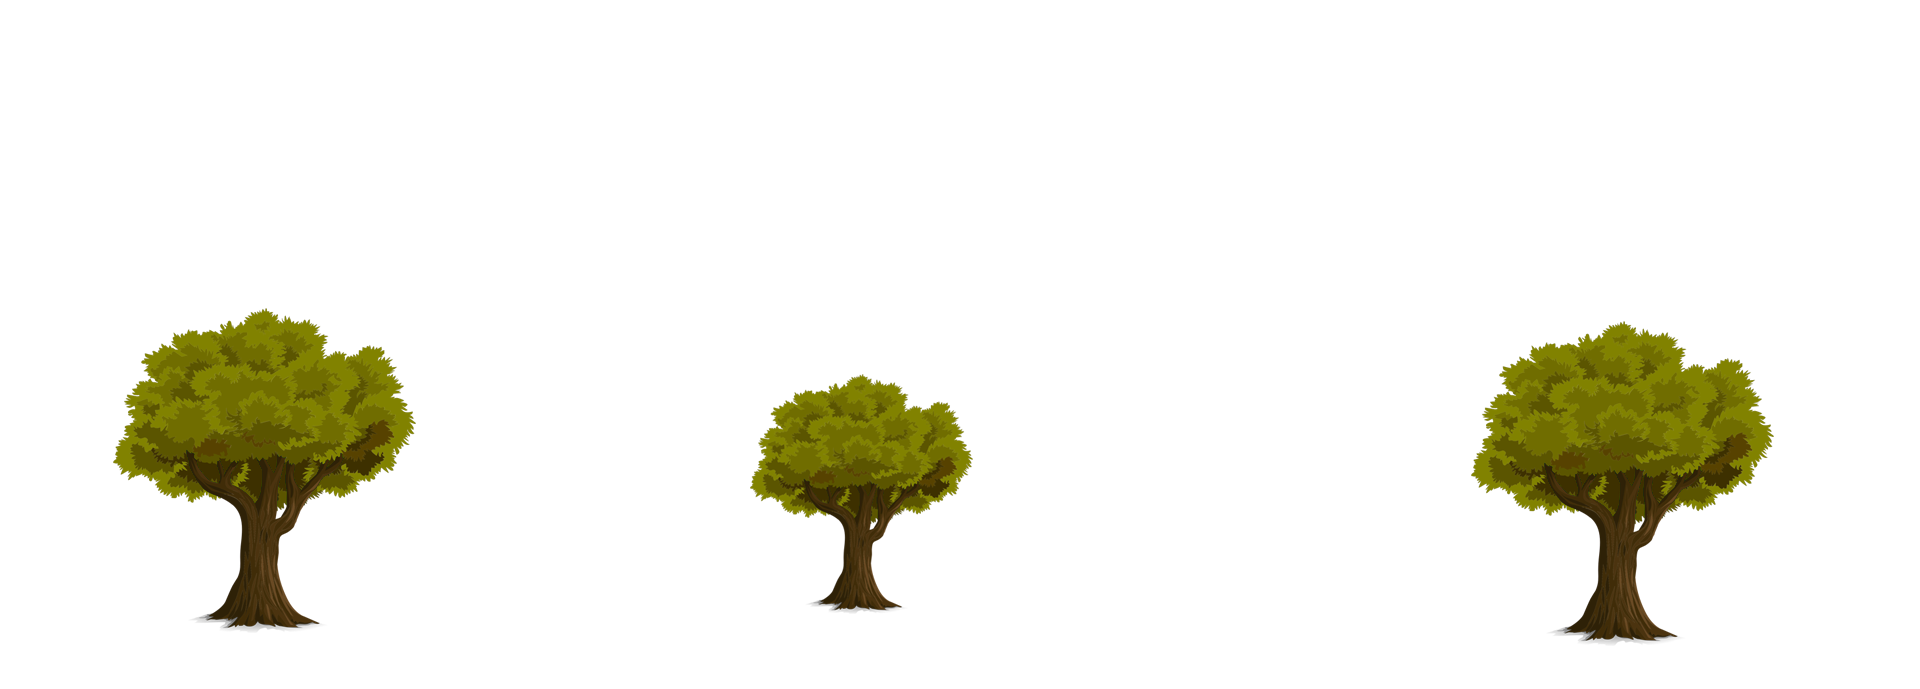
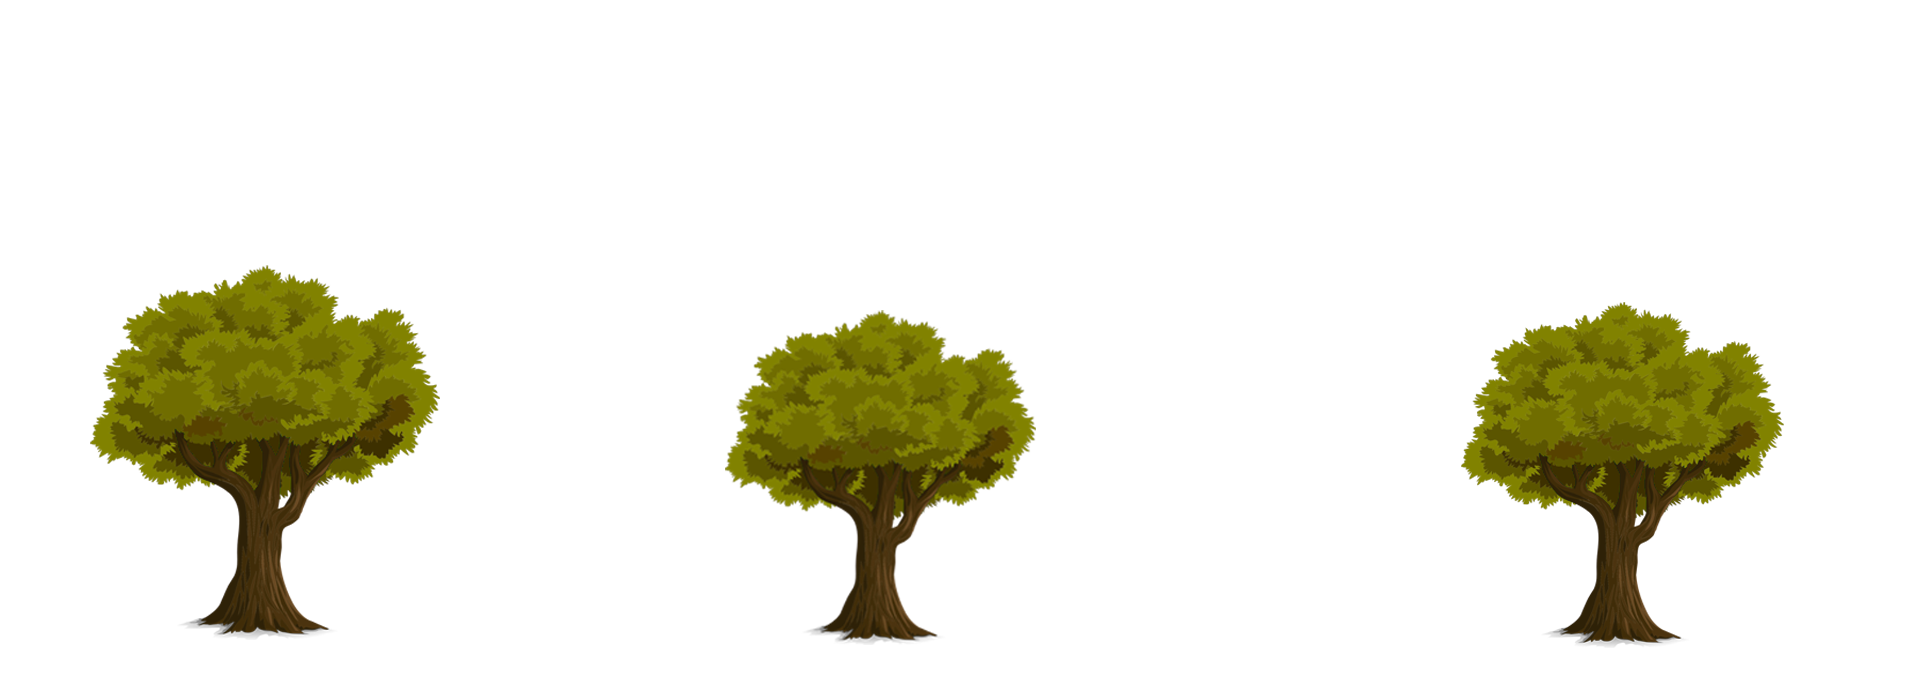
reworked map 5 background

diff --git a/game/background/background.js b/game/background/background.js
@@ -91,8 +91,8 @@ export class MovingLayer extends Layer {
         this.groundSpeed = this.game.speed * this.bgSpeed;
 
         const axisSpeed = this.axis === 'x'
-                ? this.baseScrollSpeed + this.groundSpeed
-                : this.baseScrollSpeed;
+            ? this.baseScrollSpeed + this.groundSpeed
+            : this.baseScrollSpeed;
 
         if (this.direction === 'left') {
             this.x -= axisSpeed;
@@ -370,11 +370,11 @@ export class Map4 extends Background {
 export class Map5 extends Background {
     constructor(game) {
         const fireflyLayer = new Firefly(game, 5);
-        const fireflyLayer2 = new Firefly(game, 7);
+        const fireflyLayer2 = new Firefly(game, 5);
         const fireflyLayer3 = new Firefly(game, 5);
-        const fireflyLayer4 = new Firefly(game, 4);
+        const fireflyLayer4 = new Firefly(game, 5);
         const fireflyLayer5 = new Firefly(game, 5);
-        const fireflyLayer6 = new Firefly(game, 10);
+        const fireflyLayer6 = new Firefly(game, 5);
 
         const raindropAnimationLayer = new RaindropAnimation(game, 100);
 
@@ -382,20 +382,18 @@ export class Map5 extends Background {
             game,
             { imageId: 'map5Background', bgSpeed: 0 },
             fireflyLayer,
-            { imageId: 'map5Trees5', bgSpeed: 0.3 },
-            { imageId: 'map5Trees2', bgSpeed: 0.32 },
+            { imageId: 'map5TallGrass', bgSpeed: 0.1 },
             fireflyLayer2,
-            { imageId: 'map5Trees4', bgSpeed: 0.34 },
-            { imageId: 'map5Trees3', bgSpeed: 0.4 },
+            { imageId: 'map5BigSunflowers', bgSpeed: 0.15 },
+            { imageId: ['map5Bush1', 'map5Bush2'], bgSpeed: 0.3 },
             fireflyLayer3,
-            { imageId: 'map5Trees1', bgSpeed: 0.44 },
+            { imageId: ['map5Trees1', 'map5Trees2'], bgSpeed: 0.4 },
             fireflyLayer4,
-            { imageId: 'map5Bush2', bgSpeed: 0.5 },
+            { imageId: ['map5Trees3', 'map5Trees4'], bgSpeed: 0.5 },
             fireflyLayer5,
-            { imageId: 'map5Bush1', bgSpeed: 0.54 },
-            { imageId: 'map5Flowers2', bgSpeed: 0.6 },
-            { imageId: 'map5Flowers1', bgSpeed: 0.7 },
+            { imageId: 'map5Cattails', bgSpeed: 0.8 },
             fireflyLayer6,
+            { imageId: ['map5Flowers1', 'map5Flowers2'], bgSpeed: 0.87 },
             { imageId: 'map5Ground', bgSpeed: 1 },
             raindropAnimationLayer,
         );
@@ -945,7 +943,7 @@ export class RaindropAnimation {
                     raindrop.y = 0;
                     raindrop.x = Math.random() * this.game.width;
 
-                    if (Math.random() <= 0.025) {
+                    if (Math.random() <= 0.065) {
                         const splashAnimation = new RaindropSplashAnimation(this.game, raindrop.x);
                         this.splashes.push(splashAnimation);
                     }

diff --git a/__tests__/background/background.test.js b/__tests__/background/background.test.js
@@ -88,7 +88,8 @@ beforeAll(() => {
         'map4Ground',
         // Map5
         'map5Background',
-        'map5Trees5',
+        'map5TallGrass',
+        'map5BigSunflowers',
         'map5Trees2',
         'map5Trees4',
         'map5Trees3',
@@ -97,6 +98,7 @@ beforeAll(() => {
         'map5Bush1',
         'map5Flowers2',
         'map5Flowers1',
+        'map5Cattails',
         'map5Ground',
         // Map6
         'map6Background',
@@ -545,7 +547,7 @@ describe('Map constructors', () => {
         { Cls: Map2, id: 'map2Soundtrack', expectedLen: 8 },
         { Cls: Map3, id: 'map3Soundtrack', expectedLen: 16 },
         { Cls: Map4, id: 'map4Soundtrack', expectedLen: 11 },
-        { Cls: Map5, id: 'map5Soundtrack', expectedLen: 18 },
+        { Cls: Map5, id: 'map5Soundtrack', expectedLen: 16 },
         { Cls: Map6, id: 'map6Soundtrack', expectedLen: 11 },
         { Cls: Map7, id: 'map7Soundtrack', expectedLen: 6 },
         { Cls: BonusMap1, id: 'map3Soundtrack', expectedLen: 11 },

diff --git a/game/style.css b/game/style.css
@@ -91,7 +91,7 @@ body {
 /* map4 */ 
 #map4Background, #map4Ground, #map4BottomVines, #map4TopVines, #map4Trees1, #map4Trees2, #map4Trees3, #map4Trees4, 
 /* map5 */ 
-#map5Background, #map5Ground, #map5Flowers1, #map5Flowers2, #map5Bush1, #map5Bush2, #map5Trees1, #map5Trees2, #map5Trees3, #map5Trees4, #map5Trees5, 
+#map5Background, #map5Ground, #map5Flowers1, #map5Flowers2, #map5Bush1, #map5Bush2, #map5Trees1, #map5Trees2, #map5Trees3, #map5Trees4, #map5BigSunflowers, #map5TallGrass, #map5Cattails,
 /* map6 */ 
 #map6Background, #map6Ground, #map6SmallMushrooms1, #map6SmallMushrooms2, #map6BigMushrooms, #map6DeadBranches1, #map6DeadBranches2, #map6Trees1, #map6Trees2, #map6Trees3, #map6Trees4, #map6Rocks1, #map6Rocks2, #map6GreenMist, 
 /* map7 */ 

diff --git a/game/index.html b/game/index.html
@@ -616,7 +616,9 @@
 <img id="map5Trees2" src="assets/mapsBackground/Map5/map5Trees2.png">
 <img id="map5Trees3" src="assets/mapsBackground/Map5/map5Trees3.png">
 <img id="map5Trees4" src="assets/mapsBackground/Map5/map5Trees4.png">
-<img id="map5Trees5" src="assets/mapsBackground/Map5/map5Trees5.png">
+<img id="map5BigSunflowers" src="assets/mapsBackground/Map5/map5BigSunflowers.png">
+<img id="map5TallGrass" src="assets/mapsBackground/Map5/map5TallGrass.png">
+<img id="map5Cattails" src="assets/mapsBackground/Map5/map5Cattails.png">
 <!-- map6 -->
 <img id="map6Background" src="assets/mapsBackground/Map6/map6Background.png">
 <img id="map6Ground" src="assets/mapsBackground/Map6/map6Ground.png">

diff --git a/__tests__/game-main.test.js b/__tests__/game-main.test.js
@@ -121,7 +121,6 @@ describe('Game class (game-main.js)', () => {
 
       <!-- Map5 -->
       <img id="map5Background">
-      <img id="map5Trees5">
       <img id="map5Trees2">
       <img id="map5Trees4">
       <img id="map5Trees3">
